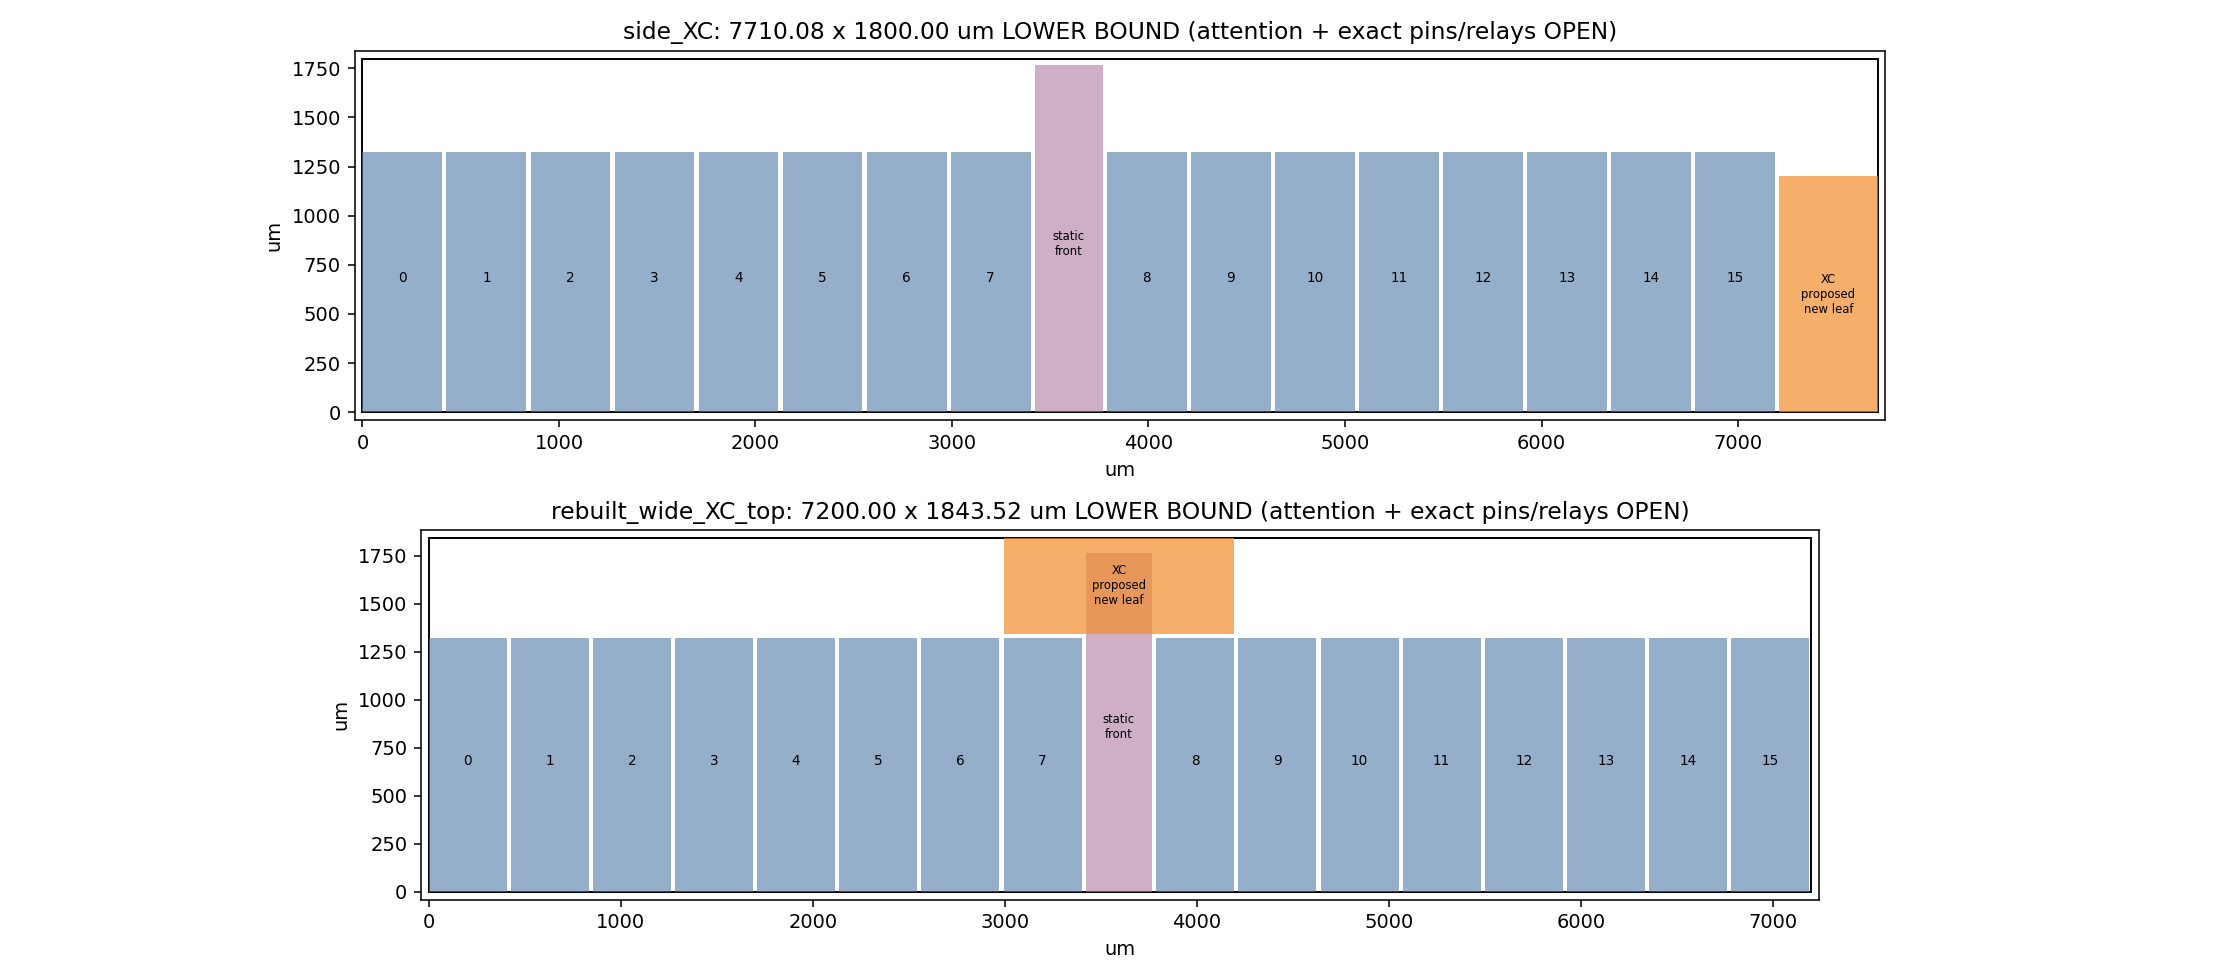
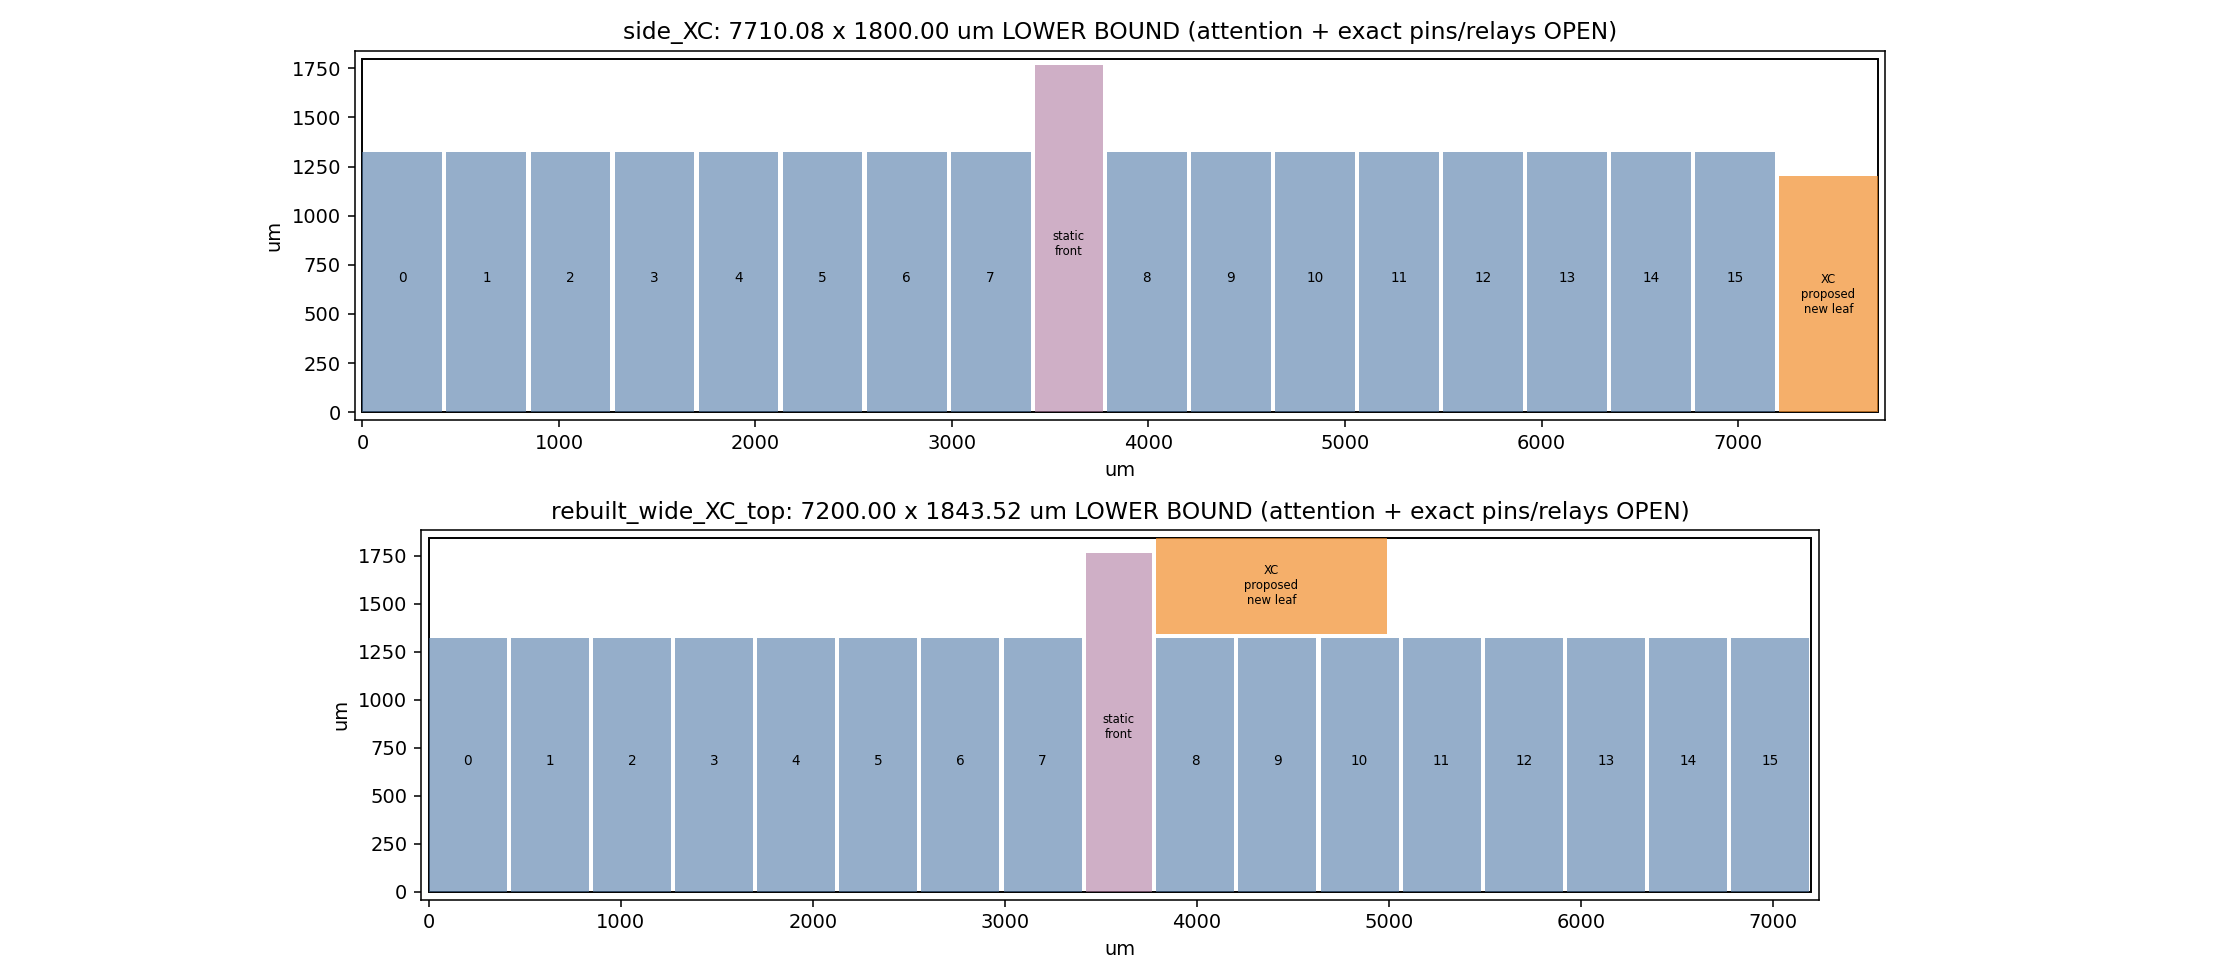
Place proposed upper XC beside static-front column after actual image review

Changed region(s): [[0.4375, 0.551, 0.625, 0.6735]]

diff --git a/tools/hbm_sm_repack_1015/xc_frame_bounds.py b/tools/hbm_sm_repack_1015/xc_frame_bounds.py
@@ -10,7 +10,7 @@ a=json.loads(p.read_text());tw,th=a['outline_um'];gap=21.6
 body=16*tw+15*gap;front=345.6;old=body+front+gap;xcw,xch=500,1200
 side=old+gap+xcw;top=th+gap+500
 out=R/'results/arch/hbm_sm_repack_1015/xc_frame_bounds';out.mkdir(parents=True,exist_ok=True)
-d=dict(schema='opentallas.sm_xc_frame_bounds.v1',scope='Lower bounds only; MATVEC RP4 body not closed, attention/fullSM still absent. XC500x1200 is preliminary proposed rebuilt real leaf, not accepted existing hard view.',rp4_plan_sha256=hashlib.sha256(p.read_bytes()).hexdigest(),tile_outline_um=[tw,th],body16_tiles_width_um=body,front_column_um=[front,1765.44],total_body_front_width_um=old,slot_um=[7200,1800],current_residual_width_um=7200-old,current_top_strip_height_um=1800-th-gap,xc_preliminary_um=[xcw,xch],fits_7200x1800=False,reason='Side remainder11.52um cannot hold500um XC; top strip456.48um cannot hold1200um tall XC or500um tall rebuilt wide XC.',alternatives=[dict(name='side_XC',outline_lower_bound_um=[side,1800],added_frame_area_mm2=(side-7200)*1800/1e6,added32SM_area_mm2=32*(side-7200)*1800/1e6,dependency='Actual500x1200 XC leaf pin/macro layout plus7200-wide SM body/front closure. Whole die row expansion and all connected cut/hop/relay changes required.'),dict(name='rebuilt_wide_XC_top',outline_lower_bound_um=[7200,top],added_frame_area_mm2=7200*(top-1800)/1e6,added32SM_area_mm2=32*7200*(top-1800)/1e6,dependency='New1200x500 XC floorplan with actual unrotated SRAM macros; not a90degree rotation of an existing hard view. Requires macro/pin/clock/route proof. Exact173bit command capture adjacency/calendar cycles unresolved.')],open=['Exact173bit endpoints and capture alignment','Attention PV/wave/prob/BE outline and actual graph','Source-bound full static front/feed physical views','Independent28root real clock distributor placement','Actual edgepins and cut<=0.60','Physical relay homes and fixed compiler cycles','Full native TT/FF/DRC0 and end-to-end rate'])
+d=dict(schema='opentallas.sm_xc_frame_bounds.v1',scope='Lower bounds only; MATVEC RP4 body not closed, attention/fullSM still absent. XC500x1200 is preliminary proposed rebuilt real leaf, not accepted existing hard view.',rp4_plan_sha256=hashlib.sha256(p.read_bytes()).hexdigest(),tile_outline_um=[tw,th],body16_tiles_width_um=body,front_column_um=[front,1765.44],total_body_front_width_um=old,slot_um=[7200,1800],current_residual_width_um=7200-old,current_top_strip_height_um=1800-th-gap,xc_preliminary_um=[xcw,xch],fits_7200x1800=False,reason='Side remainder11.52um cannot hold500um XC; top strip456.48um cannot hold1200um tall XC or500um tall rebuilt wide XC.',alternatives=[dict(name='side_XC',outline_lower_bound_um=[side,1800],added_frame_area_mm2=(side-7200)*1800/1e6,added32SM_area_mm2=32*(side-7200)*1800/1e6,dependency='Actual500x1200 XC leaf pin/macro layout plus7200-wide SM body/front closure. Whole die row expansion and all connected cut/hop/relay changes required.'),dict(name='rebuilt_wide_XC_top',outline_lower_bound_um=[7200,top],added_frame_area_mm2=7200*(top-1800)/1e6,added32SM_area_mm2=32*7200*(top-1800)/1e6,dependency='New1200x500 XC floorplan with actual unrotated SRAM macros; not a90degree rotation of an existing hard view. Requires macro/pin/clock/route proof. Exact173bit command capture adjacency/calendar cycles unresolved.')],open=['XC upper strip placed beside static-front column, never overlaid; no physical90degree hard-view rotation','Exact173bit endpoints and capture alignment','Attention PV/wave/prob/BE outline and actual graph','Source-bound full static front/feed physical views','Independent28root real clock distributor placement','Actual edgepins and cut<=0.60','Physical relay homes and fixed compiler cycles','Full native TT/FF/DRC0 and end-to-end rate'])
 (out/'bounds.json').write_text(json.dumps(d,indent=2)+'\n')
 fig,axs=plt.subplots(2,1,figsize=(16,7),dpi=140)
 for ax,(w,h,mode) in zip(axs,[(side,1800,'side_XC'),(7200,top,'rebuilt_wide_XC_top')]):
@@ -21,7 +21,7 @@ for ax,(w,h,mode) in zip(axs,[(side,1800,'side_XC'),(7200,top,'rebuilt_wide_XC_t
    ax.add_patch(Rectangle((x,0),front,1765.44,fc='#b07aa1',alpha=.6));ax.text(x+front/2,800,'static\nfront',ha='center',fontsize=6);x+=front+gap
   ax.add_patch(Rectangle((x,0),tw,th,fc='#4e79a7',alpha=.6));ax.text(x+tw/2,th/2,str(i),ha='center',fontsize=7);x+=tw+gap
  if mode=='side_XC':xx,yy,ww,hh=old+gap,0,500,1200
- else:xx,yy,ww,hh=old/2-600,th+gap,1200,500
+ else:xx,yy,ww,hh=8*(tw+gap)+front+gap,th+gap,1200,500
  ax.add_patch(Rectangle((xx,yy),ww,hh,fc='#f28e2b',alpha=.7));ax.text(xx+ww/2,yy+hh/2,'XC\nproposed\nnew leaf',ha='center',va='center',fontsize=6)
  ax.set(xlim=(-40,w+40),ylim=(-40,h+40),title=f'{mode}: {w:.2f} x {h:.2f} um LOWER BOUND (attention + exact pins/relays OPEN)');ax.set_aspect('equal');ax.set_xlabel('um');ax.set_ylabel('um')
 fig.tight_layout();fig.savefig(out/'alternatives.png');print(json.dumps(d,indent=2))
